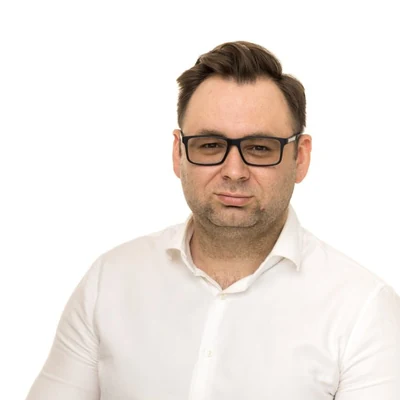
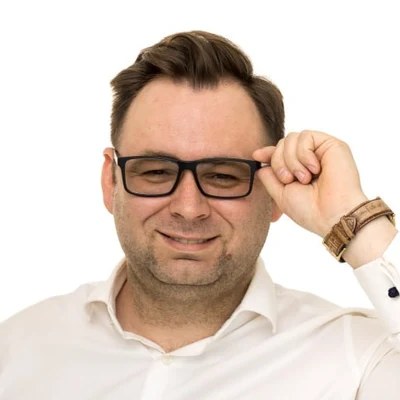
style: бренд Puls (без E), центровка лого, фото основателя
Бренд:
- Было: Pulse (с E) в тексте и лого-локапе
- Стало: Puls — единое написание, консистентно с доменом

Лого-локап:
- Подогнал горизонтальную центровку wordmark под иконку (сдвиг -2px вместо +2px — под более короткое слово)

Основатель:
- Заменил кадр на более располагающий (с улыбкой)

diff --git a/src/data/faq.ts b/src/data/faq.ts
@@ -4,35 +4,35 @@ export type FaqItem = { q: string; a: string };
 
 export const faq: FaqItem[] = [
   {
-    q: "Pulse заменяет 1С?",
-    a: "Нет. 1С отлично справляется с бухгалтерским и налоговым учётом. Pulse — это оперативный слой контроля для руководителя: он показывает реальность на стройплощадке, задержки материалов и подписи актов в 9:00 утра сегодня, а не после закрытия квартала.",
+    q: "Puls заменяет 1С?",
+    a: "Нет. 1С отлично справляется с бухгалтерским и налоговым учётом. Puls — это оперативный слой контроля для руководителя: он показывает реальность на стройплощадке, задержки материалов и подписи актов в 9:00 утра сегодня, а не после закрытия квартала.",
   },
   {
     q: "Что делать, если прорабы откажутся заполнять систему?",
-    a: "Прорабы саботируют софт, когда он сложный и требует сидеть за ноутбуком. В Pulse для площадки — мобильная веб-версия: пара действий с телефона (запрос на материал, фото факта, подтверждение объёма), без лишних полей. Это занимает минуты, а снабжение и ПТО сразу видят актуальные данные.",
+    a: "Прорабы саботируют софт, когда он сложный и требует сидеть за ноутбуком. В Puls для площадки — мобильная веб-версия: пара действий с телефона (запрос на материал, фото факта, подтверждение объёма), без лишних полей. Это занимает минуты, а снабжение и ПТО сразу видят актуальные данные.",
   },
   {
     q: "Продукт уже готов или ещё в разработке?",
-    a: "Pulse на этапе предзапуска: рабочий контур (объекты, графики, снабжение, финансы, документы) собран, ИИ-функции — в активной разработке и подключаются поэтапно, в режиме раннего доступа. Поэтому мы берём 5–10 компаний в пилот, чтобы вместе с вашими специалистами выстроить первый рабочий контур на ваших объектах.",
+    a: "Puls на этапе предзапуска: рабочий контур (объекты, графики, снабжение, финансы, документы) собран, ИИ-функции — в активной разработке и подключаются поэтапно, в режиме раннего доступа. Поэтому мы берём 5–10 компаний в пилот, чтобы вместе с вашими специалистами выстроить первый рабочий контур на ваших объектах.",
   },
   {
     q: "Как именно работает ИИ в стройке?",
     a: "Встроенный помощник задуман как аудитор по данным компании: он не «пишет стихи», а сверяет график работ со сроками поставок и оплатами. Если по графику этап скоро начинается, а счёт ещё не оплачен — помощник заранее подсвечивает риск. Он работает только на данных вашей компании, без выхода в интернет, и подсказывает — решение остаётся за вами.",
   },
   {
-    q: "У нас уже есть Excel, 1С и рабочие чаты. Зачем ещё Pulse?",
-    a: "Excel удобен для расчётов, чаты — для связи, 1С — для налоговой. Но ни один не даёт директору единый оперативный экран: какие объекты задерживаются, где простаивают рабочие, по каким допработам не отправлено письмо заказчику и кто за это отвечает. В чатах данные теряются, а в Pulse они жёстко связаны с графиком и деньгами.",
+    q: "У нас уже есть Excel, 1С и рабочие чаты. Зачем ещё Puls?",
+    a: "Excel удобен для расчётов, чаты — для связи, 1С — для налоговой. Но ни один не даёт директору единый оперативный экран: какие объекты задерживаются, где простаивают рабочие, по каким допработам не отправлено письмо заказчику и кто за это отвечает. В чатах данные теряются, а в Puls они жёстко связаны с графиком и деньгами.",
   },
   {
     q: "Это ещё одна тяжёлая ERP, которую придётся внедрять полгода?",
     a: "Нет. Мы не предлагаем ломать всё сразу. Пилот идёт поэтапно: берём один рабочий контур, одну главную боль и нужные роли — а не «внедряем всю систему». Можно начать с одного процесса и расширяться по мере пользы.",
   },
   {
-    q: "Подойдёт ли Pulse, если у нас нет выделенного руководителя проектов?",
+    q: "Подойдёт ли Puls, если у нас нет выделенного руководителя проектов?",
     a: "Да. Ключевой критерий — не конкретная должность, а то, что у вас уже несколько объектов параллельно, несколько ролей в команде и боль ручного управления. Под структуру вашей компании настроим контур на пилоте.",
   },
   {
-    q: "А если после разбора окажется, что Pulse нам пока не нужен?",
-    a: "Скажем об этом честно. Мы берём в пилот не всех подряд, а компании, где Pulse реально закроет боль. Если объектов или ролей пока мало — прямо скажем на первом разборе, без впаривания.",
+    q: "А если после разбора окажется, что Puls нам пока не нужен?",
+    a: "Скажем об этом честно. Мы берём в пилот не всех подряд, а компании, где Puls реально закроет боль. Если объектов или ролей пока мало — прямо скажем на первом разборе, без впаривания.",
   },
 ];

diff --git a/src/data/roles.ts b/src/data/roles.ts
@@ -20,7 +20,7 @@ export const roles: Role[] = [
     icon: "briefcase",
     badge: "Вы — ключевой получатель",
     title: "Больше не нужно быть живым диспетчером",
-    desc: "Вы не выпрашиваете отчёты у РП и прорабов. Каждое утро открываете Pulse и за пару минут видите, где реально горят сроки, какие закупки зависли, какие допработы не согласованы и сколько денег ушло на каждый объект.",
+    desc: "Вы не выпрашиваете отчёты у РП и прорабов. Каждое утро открываете Puls и за пару минут видите, где реально горят сроки, какие закупки зависли, какие допработы не согласованы и сколько денег ушло на каждый объект.",
     sees: "Вся компания, риски по графику, балансы объектов, сводка помощника.",
     benefit: "Свобода от микроконтроля и уверенность в марже.",
     img: "/figma/screen-yura-objekt.webp",
